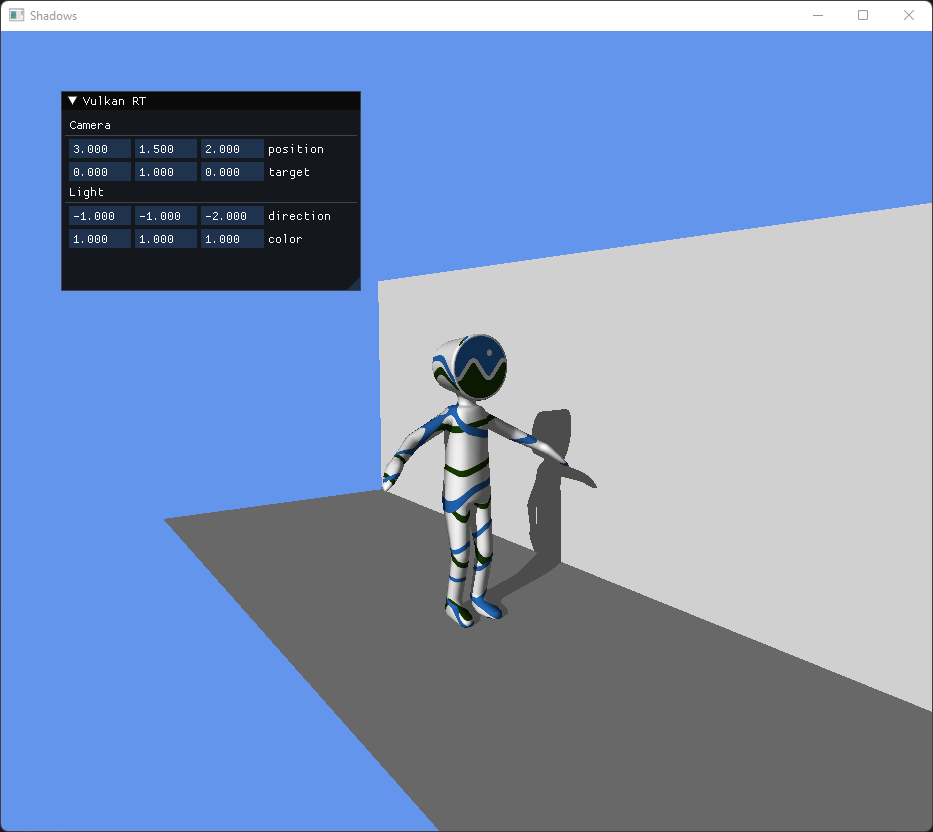
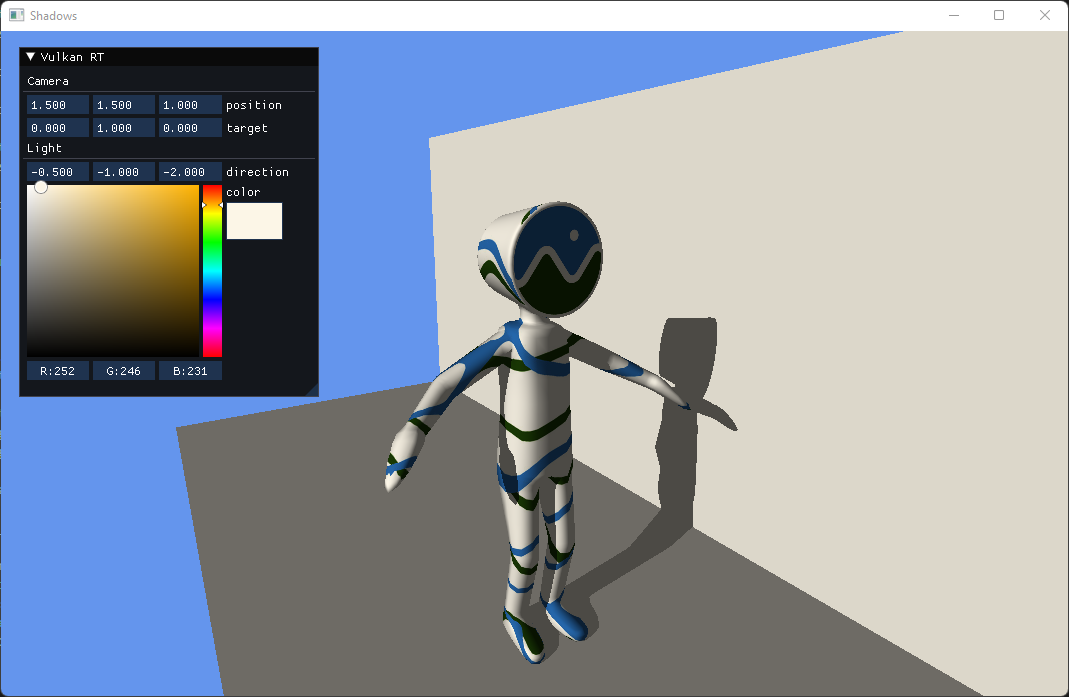
refactoring

diff --git a/crates/examples/shadows/src/main.rs b/crates/examples/shadows/src/main.rs
@@ -344,7 +344,7 @@ impl App {
         let ui = gui_context.imgui.frame();
 
         imgui::Window::new("Vulkan RT")
-            .size([300.0, 200.0], imgui::Condition::FirstUseEver)
+            .size([300.0, 350.0], imgui::Condition::FirstUseEver)
             .build(&ui, || {
                 // Cam controls
                 ui.text_wrapped("Camera");
@@ -359,7 +359,10 @@ impl App {
 
                 ui.input_float3("direction", &mut self.light.direction)
                     .build();
-                ui.input_float3("color", &mut self.light.color).build();
+
+                imgui::ColorPicker::new("color", &mut self.light.color)
+                    .display_rgb(true)
+                    .build(&ui);
             });
 
         gui_context.platform.prepare_render(&ui, window);
@@ -478,6 +481,7 @@ impl App {
 
         buffer.begin(vk::CommandBufferUsageFlags::SIMULTANEOUS_USE)?;
 
+        // Ray Tracing
         buffer.bind_pipeline(
             vk::PipelineBindPoint::RAY_TRACING_KHR,
             &self.pipeline_res.pipeline,
@@ -496,6 +500,7 @@ impl App {
             swapchain_image.extent.height,
         );
 
+        // Copy ray tracing result into swapchain
         buffer.transition_layout(
             swapchain_image,
             vk::ImageLayout::UNDEFINED,
@@ -543,6 +548,7 @@ impl App {
             vk::PipelineStageFlags::TOP_OF_PIPE,
         );
 
+        // Gui pass
         buffer.begin_render_pass(&self.render_pass, framebuffer);
 
         gui_renderer.cmd_draw(buffer.inner, draw_data)?;
@@ -1028,22 +1034,22 @@ fn create_pipeline(context: &VkContext, model: &Model) -> Result<PipelineRes> {
     // Shaders
     let shaders_create_info = [
         VkRTShaderCreateInfo {
-            source: &include_bytes!("../../../../assets/shaders/shadows/raygen.rgen.spv")[..],
+            source: &include_bytes!("../shaders/raygen.rgen.spv")[..],
             stage: vk::ShaderStageFlags::RAYGEN_KHR,
             group: VkRTShaderGroup::RayGen,
         },
         VkRTShaderCreateInfo {
-            source: &include_bytes!("../../../../assets/shaders/shadows/miss.rmiss.spv")[..],
+            source: &include_bytes!("../shaders/miss.rmiss.spv")[..],
             stage: vk::ShaderStageFlags::MISS_KHR,
             group: VkRTShaderGroup::Miss,
         },
         VkRTShaderCreateInfo {
-            source: &include_bytes!("../../../../assets/shaders/shadows/shadow.rmiss.spv")[..],
+            source: &include_bytes!("../shaders/shadow.rmiss.spv")[..],
             stage: vk::ShaderStageFlags::MISS_KHR,
             group: VkRTShaderGroup::Miss,
         },
         VkRTShaderCreateInfo {
-            source: &include_bytes!("../../../../assets/shaders/shadows/closesthit.rchit.spv")[..],
+            source: &include_bytes!("../shaders/closesthit.rchit.spv")[..],
             stage: vk::ShaderStageFlags::CLOSEST_HIT_KHR,
             group: VkRTShaderGroup::ClosestHit,
         },

diff --git a/crates/examples/triangle_basic/src/main.rs b/crates/examples/triangle_basic/src/main.rs
@@ -1,28 +1,25 @@
 use anyhow::Result;
+use ash::{
+    self,
+    extensions::{
+        ext::DebugUtils,
+        khr::{
+            AccelerationStructure as AccelerationStructureFn, DeferredHostOperations,
+            RayTracingPipeline, Surface, Swapchain as SwapchainFn,
+        },
+    },
+    vk::{self, Packed24_8},
+    Device, Entry, Instance,
+};
+use gpu_allocator::{
+    vulkan::{Allocation, AllocationCreateDesc, Allocator, AllocatorCreateDesc},
+    AllocatorDebugSettings, MemoryLocation,
+};
 use simple_logger::SimpleLogger;
 use std::{
     ffi::{CStr, CString},
     mem::{align_of, size_of, size_of_val},
     os::raw::c_void,
-};
-use vulkan::gpu_allocator::{
-    vulkan::{Allocation, AllocationCreateDesc, Allocator, AllocatorCreateDesc},
-    AllocatorDebugSettings, MemoryLocation,
-};
-use vulkan::{
-    ash::{
-        self,
-        extensions::{
-            ext::DebugUtils,
-            khr::{
-                AccelerationStructure as AccelerationStructureFn, DeferredHostOperations,
-                RayTracingPipeline, Surface, Swapchain as SwapchainFn,
-            },
-        },
-        vk::{self, Packed24_8},
-        Device, Entry, Instance,
-    },
-    ash_window,
 };
 use winit::{
     dpi::PhysicalSize,
@@ -1194,21 +1191,16 @@ fn create_pipeline(
     let pipe_layout = unsafe { device.create_pipeline_layout(&pipe_layout_info, None)? };
 
     // shader groups
-    let raygen_source = read_shader_from_bytes(
-        &include_bytes!("../../../../assets/shaders/triangle_basic/raygen.rgen.spv")[..],
-    )?;
+    let raygen_source = read_shader_from_bytes(&include_bytes!("../shaders/raygen.rgen.spv")[..])?;
     let raygen_create_info = vk::ShaderModuleCreateInfo::builder().code(&raygen_source);
     let raygen_module = unsafe { device.create_shader_module(&raygen_create_info, None)? };
 
-    let miss_source = read_shader_from_bytes(
-        &include_bytes!("../../../../assets/shaders/triangle_basic/miss.rmiss.spv")[..],
-    )?;
+    let miss_source = read_shader_from_bytes(&include_bytes!("../shaders/miss.rmiss.spv")[..])?;
     let miss_create_info = vk::ShaderModuleCreateInfo::builder().code(&miss_source);
     let miss_module = unsafe { device.create_shader_module(&miss_create_info, None)? };
 
-    let closesthit_source = read_shader_from_bytes(
-        &include_bytes!("../../../../assets/shaders/triangle_basic/closesthit.rchit.spv")[..],
-    )?;
+    let closesthit_source =
+        read_shader_from_bytes(&include_bytes!("../shaders/closesthit.rchit.spv")[..])?;
     let closesthit_create_info = vk::ShaderModuleCreateInfo::builder().code(&closesthit_source);
     let closesthit_module = unsafe { device.create_shader_module(&closesthit_create_info, None)? };
 

diff --git a/crates/examples/triangle_advanced/src/main.rs b/crates/examples/triangle_advanced/src/main.rs
@@ -510,21 +510,17 @@ fn create_pipeline(context: &VkContext) -> Result<PipelineRes> {
     // Shaders
     let shaders_create_info = [
         VkRTShaderCreateInfo {
-            source: &include_bytes!("../../../../assets/shaders/triangle_advanced/raygen.rgen.spv")
-                [..],
+            source: &include_bytes!("../shaders/raygen.rgen.spv")[..],
             stage: vk::ShaderStageFlags::RAYGEN_KHR,
             group: VkRTShaderGroup::RayGen,
         },
         VkRTShaderCreateInfo {
-            source: &include_bytes!("../../../../assets/shaders/triangle_advanced/miss.rmiss.spv")
-                [..],
+            source: &include_bytes!("../shaders/miss.rmiss.spv")[..],
             stage: vk::ShaderStageFlags::MISS_KHR,
             group: VkRTShaderGroup::Miss,
         },
         VkRTShaderCreateInfo {
-            source: &include_bytes!(
-                "../../../../assets/shaders/triangle_advanced/closesthit.rchit.spv"
-            )[..],
+            source: &include_bytes!("../shaders/closesthit.rchit.spv")[..],
             stage: vk::ShaderStageFlags::CLOSEST_HIT_KHR,
             group: VkRTShaderGroup::ClosestHit,
         },
